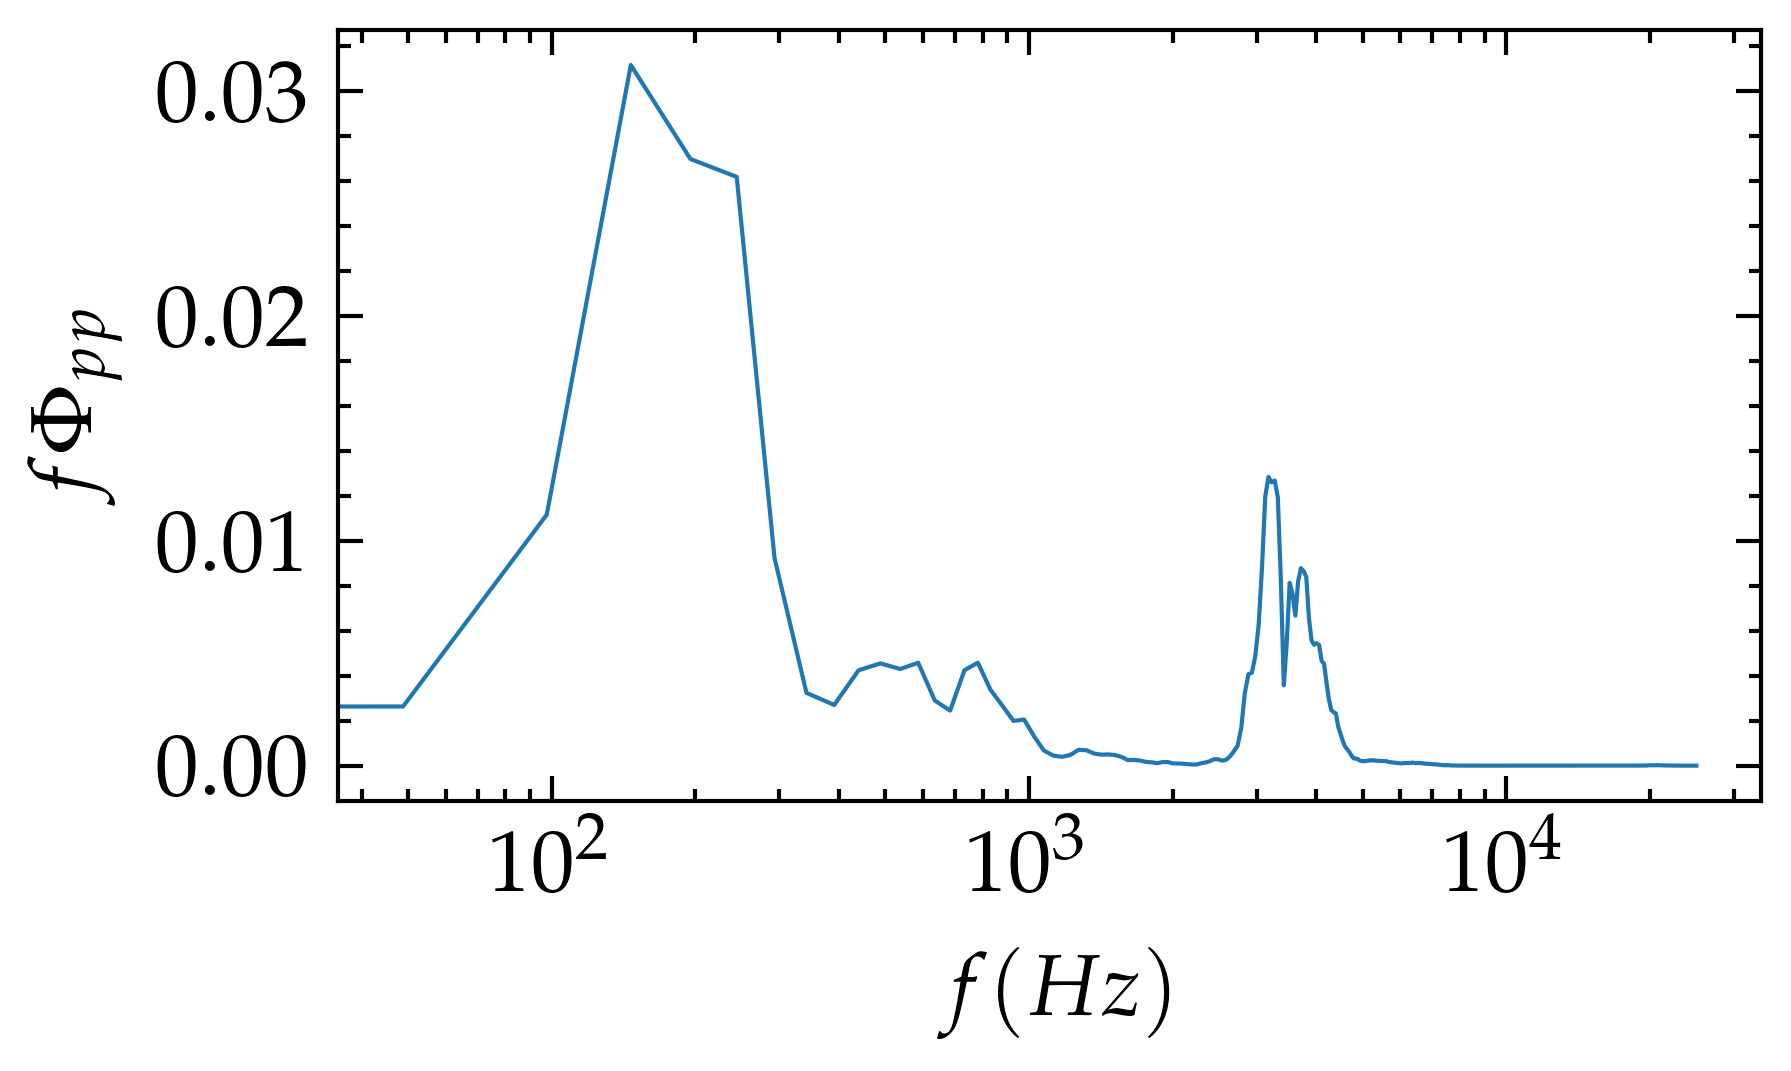
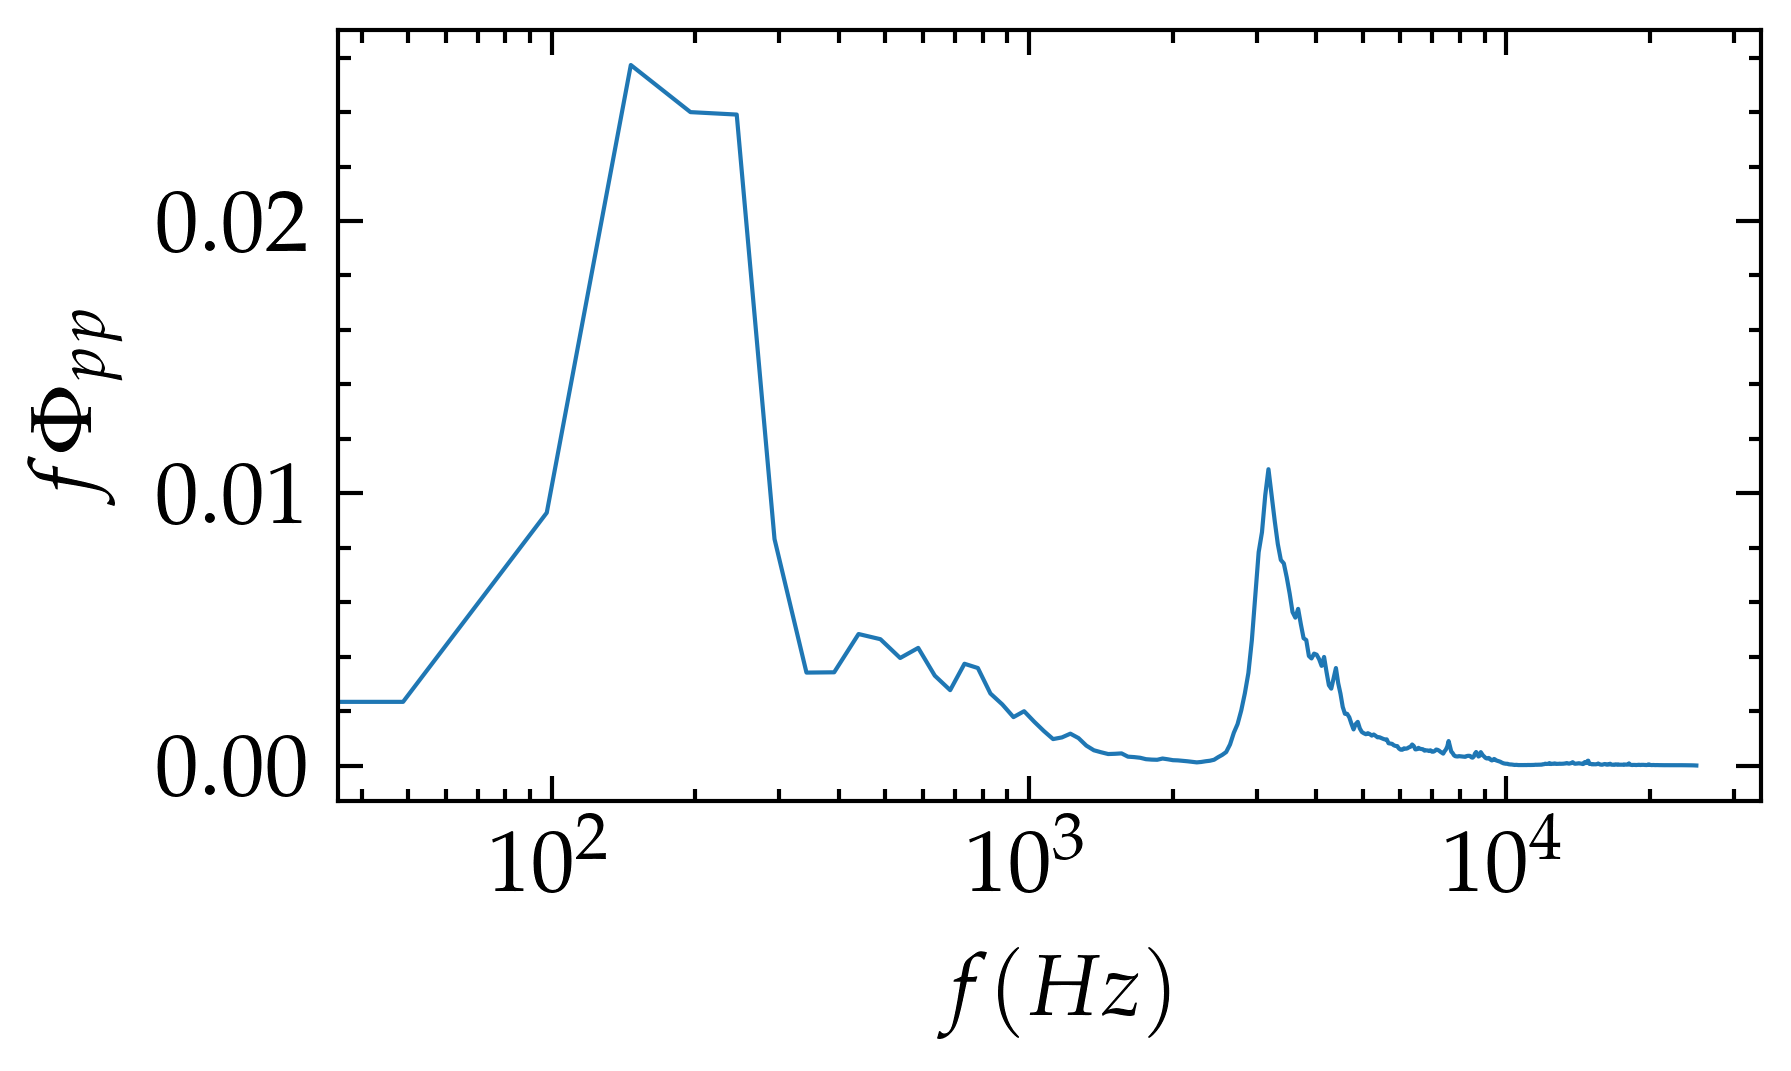
Actual noise aded

diff --git a/src/atm_callibration.py b/src/atm_callibration.py
@@ -41,22 +41,19 @@ nu_atm  = 1.52e-5  # m^2/s
 
 # -------------------------------------------------------------------------
 # >>> Units & column layout for loaded time-series (per MATLAB key) <<<
-# If your files are already in Pa, keep 'Pa'. If you have raw volts, set to 'V'
-# and specify sensitivities below.
-#
-# Keys (column meaning per dataset):
-#   - channelData_300_plug : col1=PH (pinhole), col2=NKD (naked)     [calibration sweep]
-#   - channelData_300_nose : col1=NKD,            col2=NC            [calibration sweep]
-#   - channelData_300      : col1=NC,             col2=PH            [real flow data]
+# Keys (column order):
+#   - channelData_300_plug : col1=PH (pinhole), col2=NKD (naked)   [calibration sweep]
+#   - channelData_300_nose : col1=NKD,            col2=NC          [calibration sweep]
+#   - channelData_300      : col1=NC,             col2=PH          [real flow data]
 DEFAULT_UNITS = {
     'channelData_300_plug': ('Pa', 'Pa'),  # PH, NKD
     'channelData_300_nose': ('Pa', 'Pa'),  # NKD, NC
     'channelData_300':      ('Pa', 'Pa'),  # NC,  PH
 }
 
-# If using volts, specify sensitivities (V/Pa) and preamp gains here, e.g.:
+# If using volts, specify sensitivities (V/Pa) and preamp gains here:
 SENSITIVITIES_V_PER_PA = {  # leave empty if not using 'V'
-    # 'NKD': 0.05,  # 50 mV/Pa example
+    # 'NKD': 0.05,
     # 'PH':  0.05,
     # 'NC':  0.05,
 }
@@ -66,11 +63,10 @@ PREAMP_GAIN = {  # linear gain; leave 1.0 if unknown
     'NC':  1.0,
 }
 # -------------------------------------------------------------------------
-# One source of truth for column mapping (used everywhere)
 DATA_LAYOUT = {
-    'channelData_300_plug': ('PH', 'NKD'),  # col1, col2  [pinhole, naked]
-    'channelData_300_nose': ('NKD', 'NC'),  # col1, col2
-    'channelData_300':      ('NC',  'PH'),  # col1, col2  [real flow data]
+    'channelData_300_plug': ('PH', 'NKD'),  # col1, col2
+    'channelData_300_nose': ('NKD', 'NC'),
+    'channelData_300':      ('NC',  'PH'),
 }
 
 def load_pair_pa(path: str, key: str):
@@ -326,7 +322,7 @@ def phi_pp_plus_per_fplus(Pyy: np.ndarray, rho: float, u_tau: float, nu: float) 
     """
     Dimensionless PSD per unit f⁺:
     Φ_pp⁺(f⁺) = Φ_pp(f) / (ρ² u_τ² ν)
-    (Jacobain df/df⁺ = u_τ²/ν has been applied.)
+    (Jacobian df/df⁺ = u_τ²/ν has been applied.)
     """
     return Pyy / ((rho**2) * (u_tau**2) * nu)
 
@@ -345,61 +341,79 @@ def premultiplied_phi_pp_plus(f: np.ndarray, Pyy: np.ndarray, rho: float, u_tau:
     return 1.0 / f_plus[mask], y[mask]
 
 
-# --------- Analysis helpers (robustness checks & FS-noise cancellation) ---------
+# --------- Robust forward equaliser for PH→NKD ---------
+def _moving_average(y: np.ndarray, win: int = 7):
+    if win <= 1:
+        return y
+    k = int(max(1, win))
+    k = k + 1 - (k % 2)  # force odd
+    w = np.ones(k, float) / k
+    return np.convolve(y, w, mode='same')
+
+def stabilise_forward_frf(f: np.ndarray,
+                          H: np.ndarray,
+                          gamma2: np.ndarray,
+                          fs: float,
+                          g2_thresh: float = 0.6,
+                          smooth_bins: int = 9,
+                          enforce_min_gain: bool = True,
+                          monotone_hf_envelope: bool = True,
+                          clip_gain_max: float = 50.0):
+    """
+    Produce a forward PH→NKD equaliser H_stab that:
+      * keeps the measured phase (unwrapped),
+      * smooths |H|,
+      * enforces |H| >= 1 where coherence is reliable,
+      * (optionally) makes the HF tail non-decreasing beyond the first unity crossing,
+      * extends the last reliable gain into the low-coherence tail,
+      * clips ridiculous gains to 'clip_gain_max'.
+    """
+    f = np.asarray(f, float)
+    H = np.asarray(H, complex)
+    gamma2 = np.asarray(gamma2, float)
+
+    mag = np.abs(H).astype(float)
+    phi = np.unwrap(np.angle(H))
+    # smooth
+    mag_s = _moving_average(mag, smooth_bins)
+
+    # coherent region
+    cmask = (gamma2 >= g2_thresh)
+    if np.any(cmask) and enforce_min_gain:
+        mag_s[cmask] = np.maximum(mag_s[cmask], 1.0)
+
+    # find first index where |H|>=1 in coherent region
+    idx_coh = np.where(cmask & (mag_s >= 1.0))[0]
+    if monotone_hf_envelope and idx_coh.size > 0:
+        start = int(idx_coh[0])
+        # enforce non-decreasing envelope beyond 'start' (within coherent mask)
+        # we also allow it to propagate a little into slightly lower g2 to avoid edge dips
+        env = np.maximum.accumulate(mag_s[start:])
+        mag_s[start:] = env
+
+    # extend the last reliable coherent gain across the trailing low-coherence tail
+    if np.any(cmask):
+        last_coh = int(np.max(np.where(cmask)[0]))
+        mag_s[last_coh+1:] = max(mag_s[last_coh], 1.0)
+
+    # clip absurd gains
+    mag_s = np.clip(mag_s, 0.0, clip_gain_max)
+
+    H_stab = mag_s * np.exp(1j * phi)
+    return H_stab
+
+
+# --------- Coherent FS-noise cancellation ---------
 def coherent_band_mask(f: np.ndarray, gamma2: np.ndarray, fs: float,
                        fmin: float = 50.0, fmax_frac: float = 0.4, g2_thresh: float = 0.6):
     """Return boolean mask for a sensible coherent band."""
     return (f >= fmin) & (f <= fmax_frac * fs) & (gamma2 >= g2_thresh)
-
 
 def band_energy_from_psd(f: np.ndarray, Pxx: np.ndarray, mask: np.ndarray):
     """Integrate PSD over masked band to get band-limited variance [Pa^2]."""
     if not np.any(mask):
         return 0.0
     return float(np.trapz(Pxx[mask], f[mask]))
-
-
-def select_ph_correction(nkd_from_nc: np.ndarray,
-                         ph: np.ndarray,
-                         FS: float,
-                         f_PH: np.ndarray,
-                         H_PH: np.ndarray,
-                         gamma2_PH: np.ndarray):
-    """
-    Try both: forward PH→NKD (apply_frf) and inverse (wiener_inverse) in case the saved FRF
-    was produced with the wrong orientation. Choose the one that makes the inter-NKD FRF
-    (ref=nkd_from_nc → tgt=nkd_from_ph) closest to unity within the coherent band.
-    """
-    # Candidates
-    cand_forward = apply_frf(ph, FS, f_PH, H_PH)                      # assumes H is PH→NKD
-    cand_inverse = wiener_inverse(ph, FS, f_PH, H_PH, gamma2_PH)      # robust if H is NKD→PH
-
-    candidates = [('forward', cand_forward), ('inverse', cand_inverse)]
-    scores = []
-
-    for tag, cand in candidates:
-        # FRF ref→tgt using H1
-        f_xy, H_xy, g2_xy = estimate_frf(nkd_from_nc, cand, FS)
-        mask = coherent_band_mask(f_xy, g2_xy, FS)
-        if not np.any(mask):
-            score = np.inf
-            coh_med = 0.0
-        else:
-            mag = np.abs(H_xy[mask])
-            phs = np.angle(H_xy[mask])
-            # Deviations from unity magnitude and zero phase
-            dev_mag = np.median(np.abs(mag - 1.0))
-            dev_phs = np.median(np.abs(phs)) / np.pi  # normalise to ~[0,1]
-            coh_med = float(np.median(g2_xy[mask]))
-            score = dev_mag + 0.5 * dev_phs - 0.1 * coh_med  # lower is better
-        scores.append((score, coh_med, tag, cand))
-
-    # Choose the candidate with the smallest score
-    scores.sort(key=lambda x: x[0])
-    best_score, best_coh, best_tag, best_cand = scores[0]
-    ic({'PH_correction_choice': best_tag, 'score': best_score, 'coh_med': best_coh})
-    return best_tag, best_cand
-
 
 def coherent_cancel(ref: np.ndarray,
                     tgt: np.ndarray,
@@ -411,12 +425,10 @@ def coherent_cancel(ref: np.ndarray,
     γ²-weighted coherent subtraction of the part of `tgt` that is linearly predictable from `ref`.
     Returns residual, predicted, and diagnostics.
     """
-    # Demean explicitly to avoid DC leakage; estimate_frf also detrends each segment.
     ref0 = ref - np.mean(ref)
     tgt0 = tgt - np.mean(tgt)
 
     f_xy, H_xy, g2_xy = estimate_frf(ref0, tgt0, fs)
-    # Keep only the coherent part in the subtraction model
     H_eff = H_xy * np.clip(g2_xy, 0.0, 1.0)
 
     pred = apply_frf(ref0, fs, f_xy, H_eff)
@@ -425,7 +437,6 @@ def coherent_cancel(ref: np.ndarray,
     # Diagnostics: band-limited energy ratio
     f_tgt, Pyy_tgt = compute_spec(fs, tgt0)
     f_res, Pyy_res = compute_spec(fs, resid)
-    # Interpolate target/residual PSDs to the FRF grid for a consistent mask
     Pyy_tgt_i = np.interp(f_xy, f_tgt, Pyy_tgt, left=0.0, right=0.0)
     Pyy_res_i = np.interp(f_xy, f_res, Pyy_res, left=0.0, right=0.0)
 
@@ -460,13 +471,12 @@ def main_PH():
         # Load data (to Pa): col1 = PH, col2 = NKD
         ph, nkd = load_pair_pa(fn_sweep[idx], 'channelData_300_plug')
 
-        # Trim initial transient (consistent with NKD→NC calibration)
+        # Trim initial transients
         if TRIM_CAL_SECS > 0:
             start = int(TRIM_CAL_SECS * FS)
             ph = ph[start:]
             nkd = nkd[start:]
 
-        # Optional quick-look at PH input
         plot_time_series(np.arange(len(ph)) / FS, ph, f"{FIG_DIR}/ph_{psi_labels[idx]}")
 
         # FRF PH→NKD (x=PH, y=NKD)
@@ -564,13 +574,19 @@ def real_data():
         f_NC = np.load(f"{NC_path}/f_{psi_labels[idx]}.npy")
         nkd_from_nc = wiener_inverse(nc, FS, f_NC, H_NC, gamma2_NC)
 
-        # --- Correct PH: prefer forward PH→NKD, but auto-fallback to inverse if saved H is mis-oriented
+        # --- Correct PH: forward PH→NKD with stabilisation (prevents HF roll-off or |H|<1 in coherent band)
         H_PH = np.load(f"{PH_path}/H_{psi_labels[idx]}.npy")
         gamma2_PH = np.load(f"{PH_path}/gamma2_{psi_labels[idx]}.npy")
         f_PH = np.load(f"{PH_path}/f_{psi_labels[idx]}.npy")
 
-        choice, nkd_from_ph = select_ph_correction(nkd_from_nc, ph, FS, f_PH, H_PH, gamma2_PH)
-        ic({'PH_correction_used': choice})
+        H_PH_stab = stabilise_forward_frf(f_PH, H_PH, gamma2_PH, FS,
+                                          g2_thresh=0.6,
+                                          smooth_bins=9,
+                                          enforce_min_gain=True,
+                                          monotone_hf_envelope=True,
+                                          clip_gain_max=50.0)
+
+        nkd_from_ph = apply_frf(ph, FS, f_PH, H_PH_stab)
 
         # --- Spectrum of corrected PH (NKD domain)
         f_corr, Pyy_corr = compute_spec(FS, nkd_from_ph)
@@ -587,15 +603,20 @@ def real_data():
             f"{OUTPUT_DIR}/Pyy_comparison_{psi_labels[idx]}"
         )
 
-        # Optional: print quick numeric checks
-        # Expect band-limited residual energy < target energy (Eratio < 1) in coherent band
+        # --- Quick numeric checks (HF band tendency)
+        # Compare corrected vs raw PH energy in the upper coherent band to ensure "goes the right way".
+        hf_mask = (f_PH > 0.2*FS) & (f_PH <= 0.4*FS) & (gamma2_PH >= 0.6)
+        if np.any(hf_mask):
+            hf_gain_med = float(np.median(np.abs(H_PH_stab[hf_mask])))
+            ic({'HF_median_|H_PH->NKD|': hf_gain_med, 'expect_>=': 1.0})
+
         ic({'FS_cancel_pass': bool(np.isfinite(Eratio) and (Eratio < 1.0))})
 
 
 if __name__ == "__main__":
     # Run calibrations if needed to (re)generate FRFs:
-    # main_PH()
-    # main_NC()
+    main_PH()
+    main_NC()
 
     # Apply to the real flow data:
     real_data()
